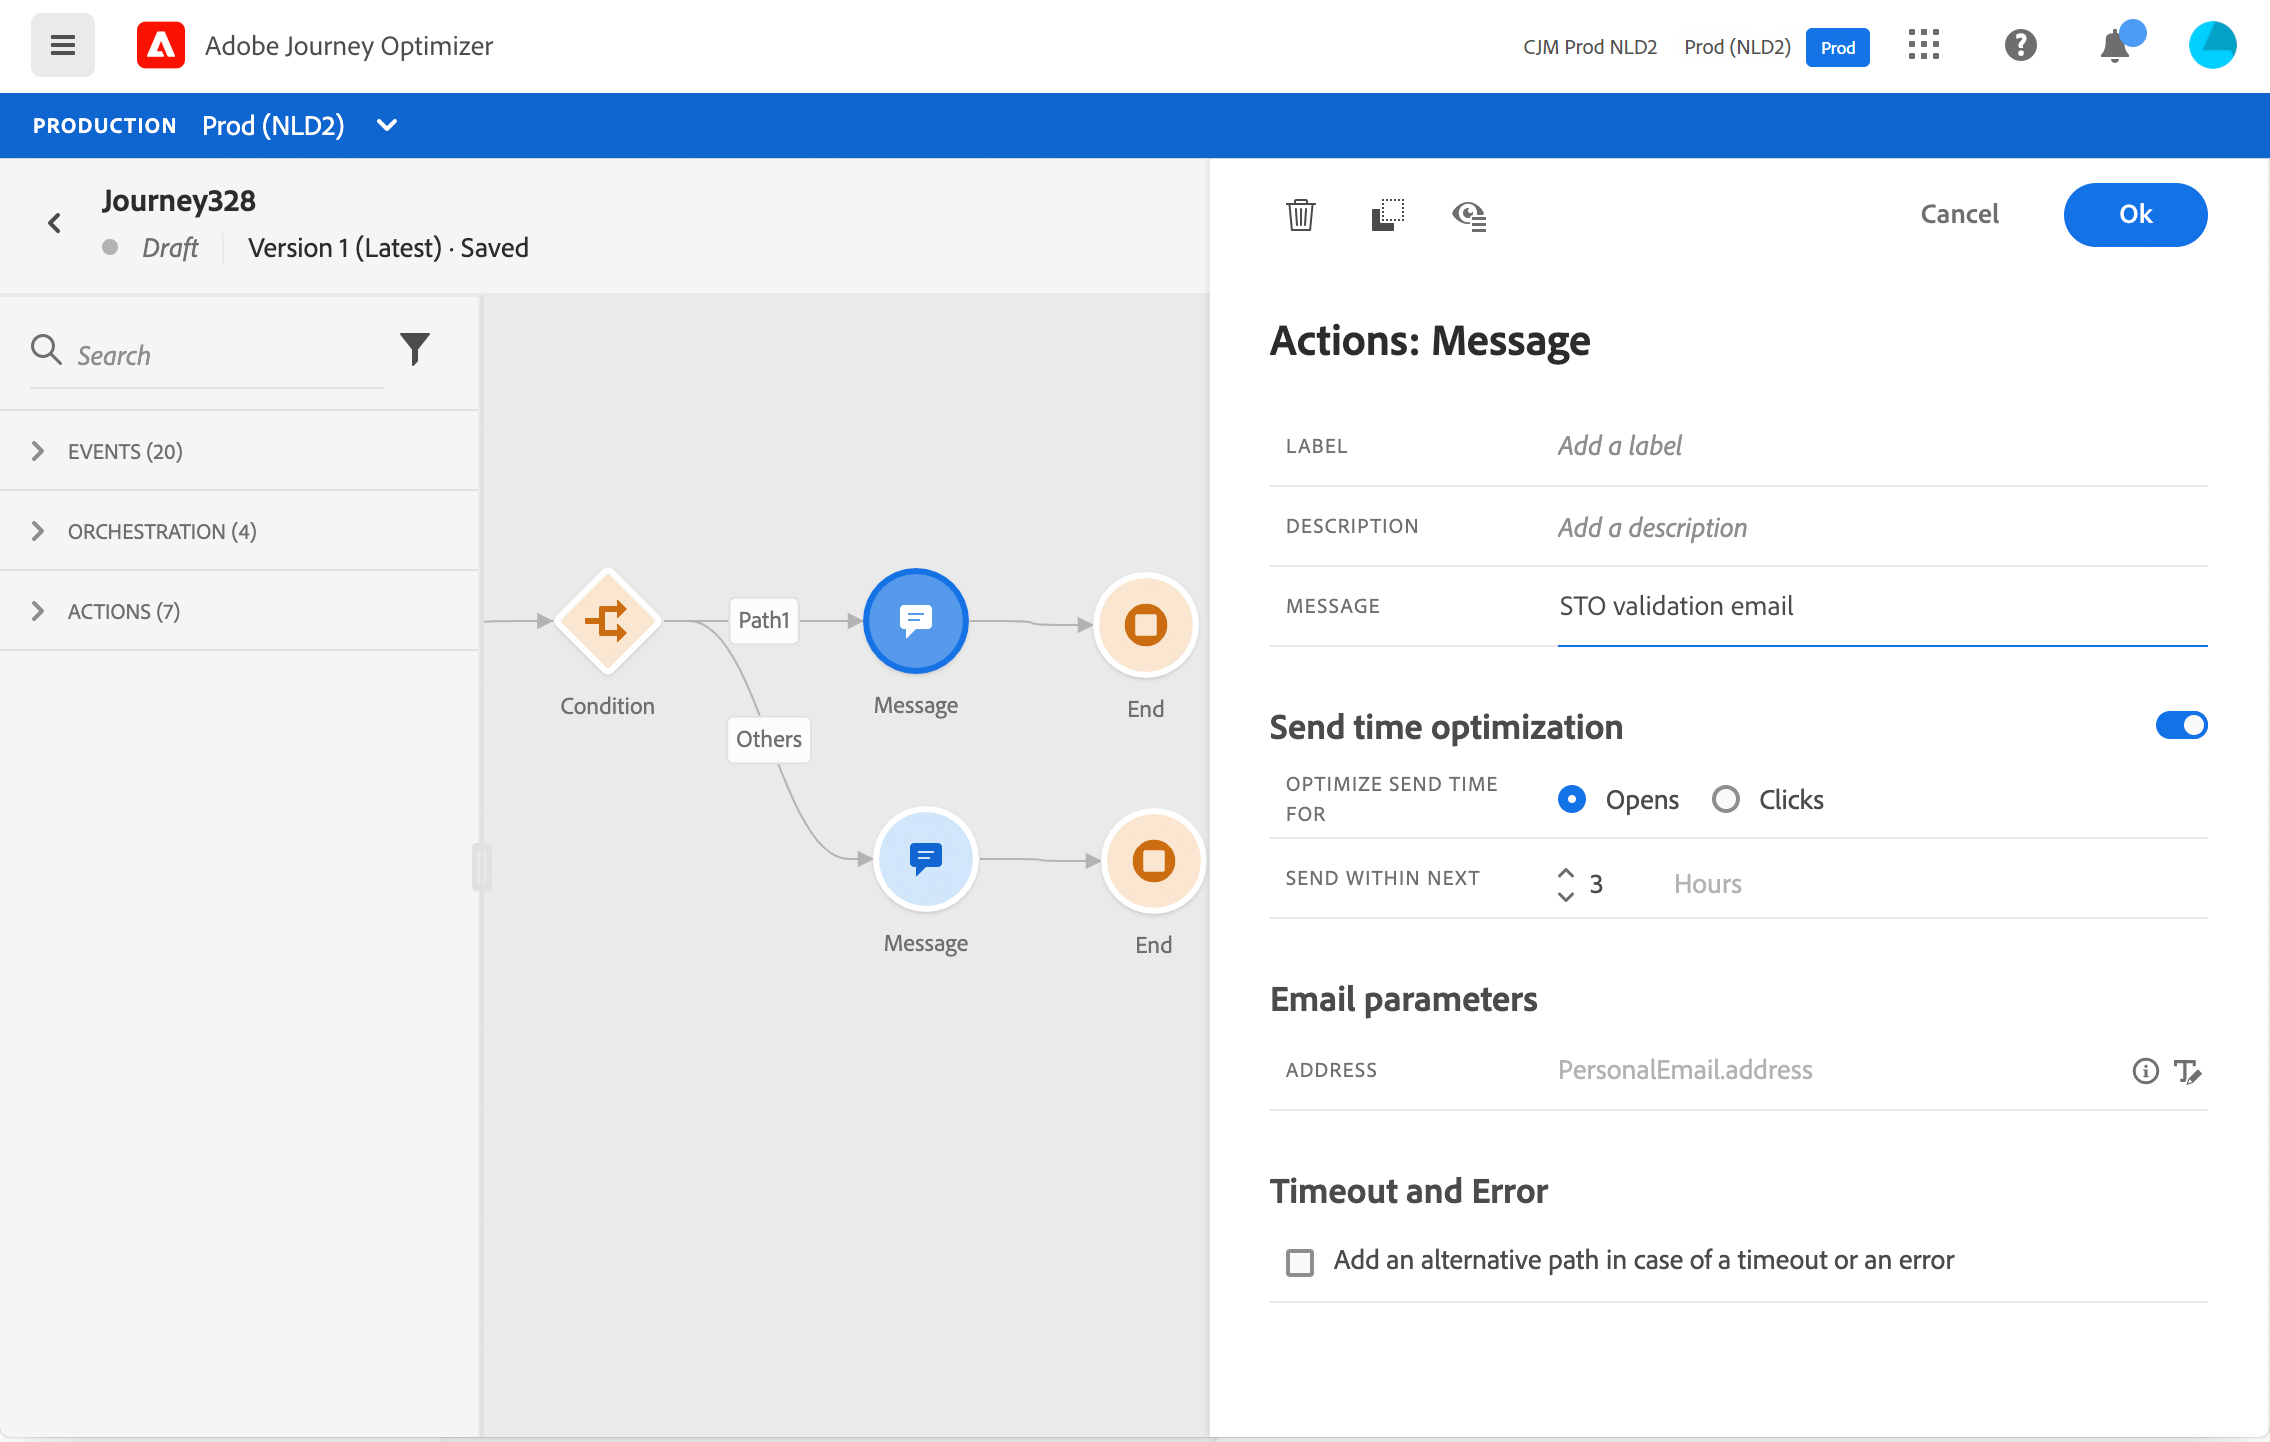
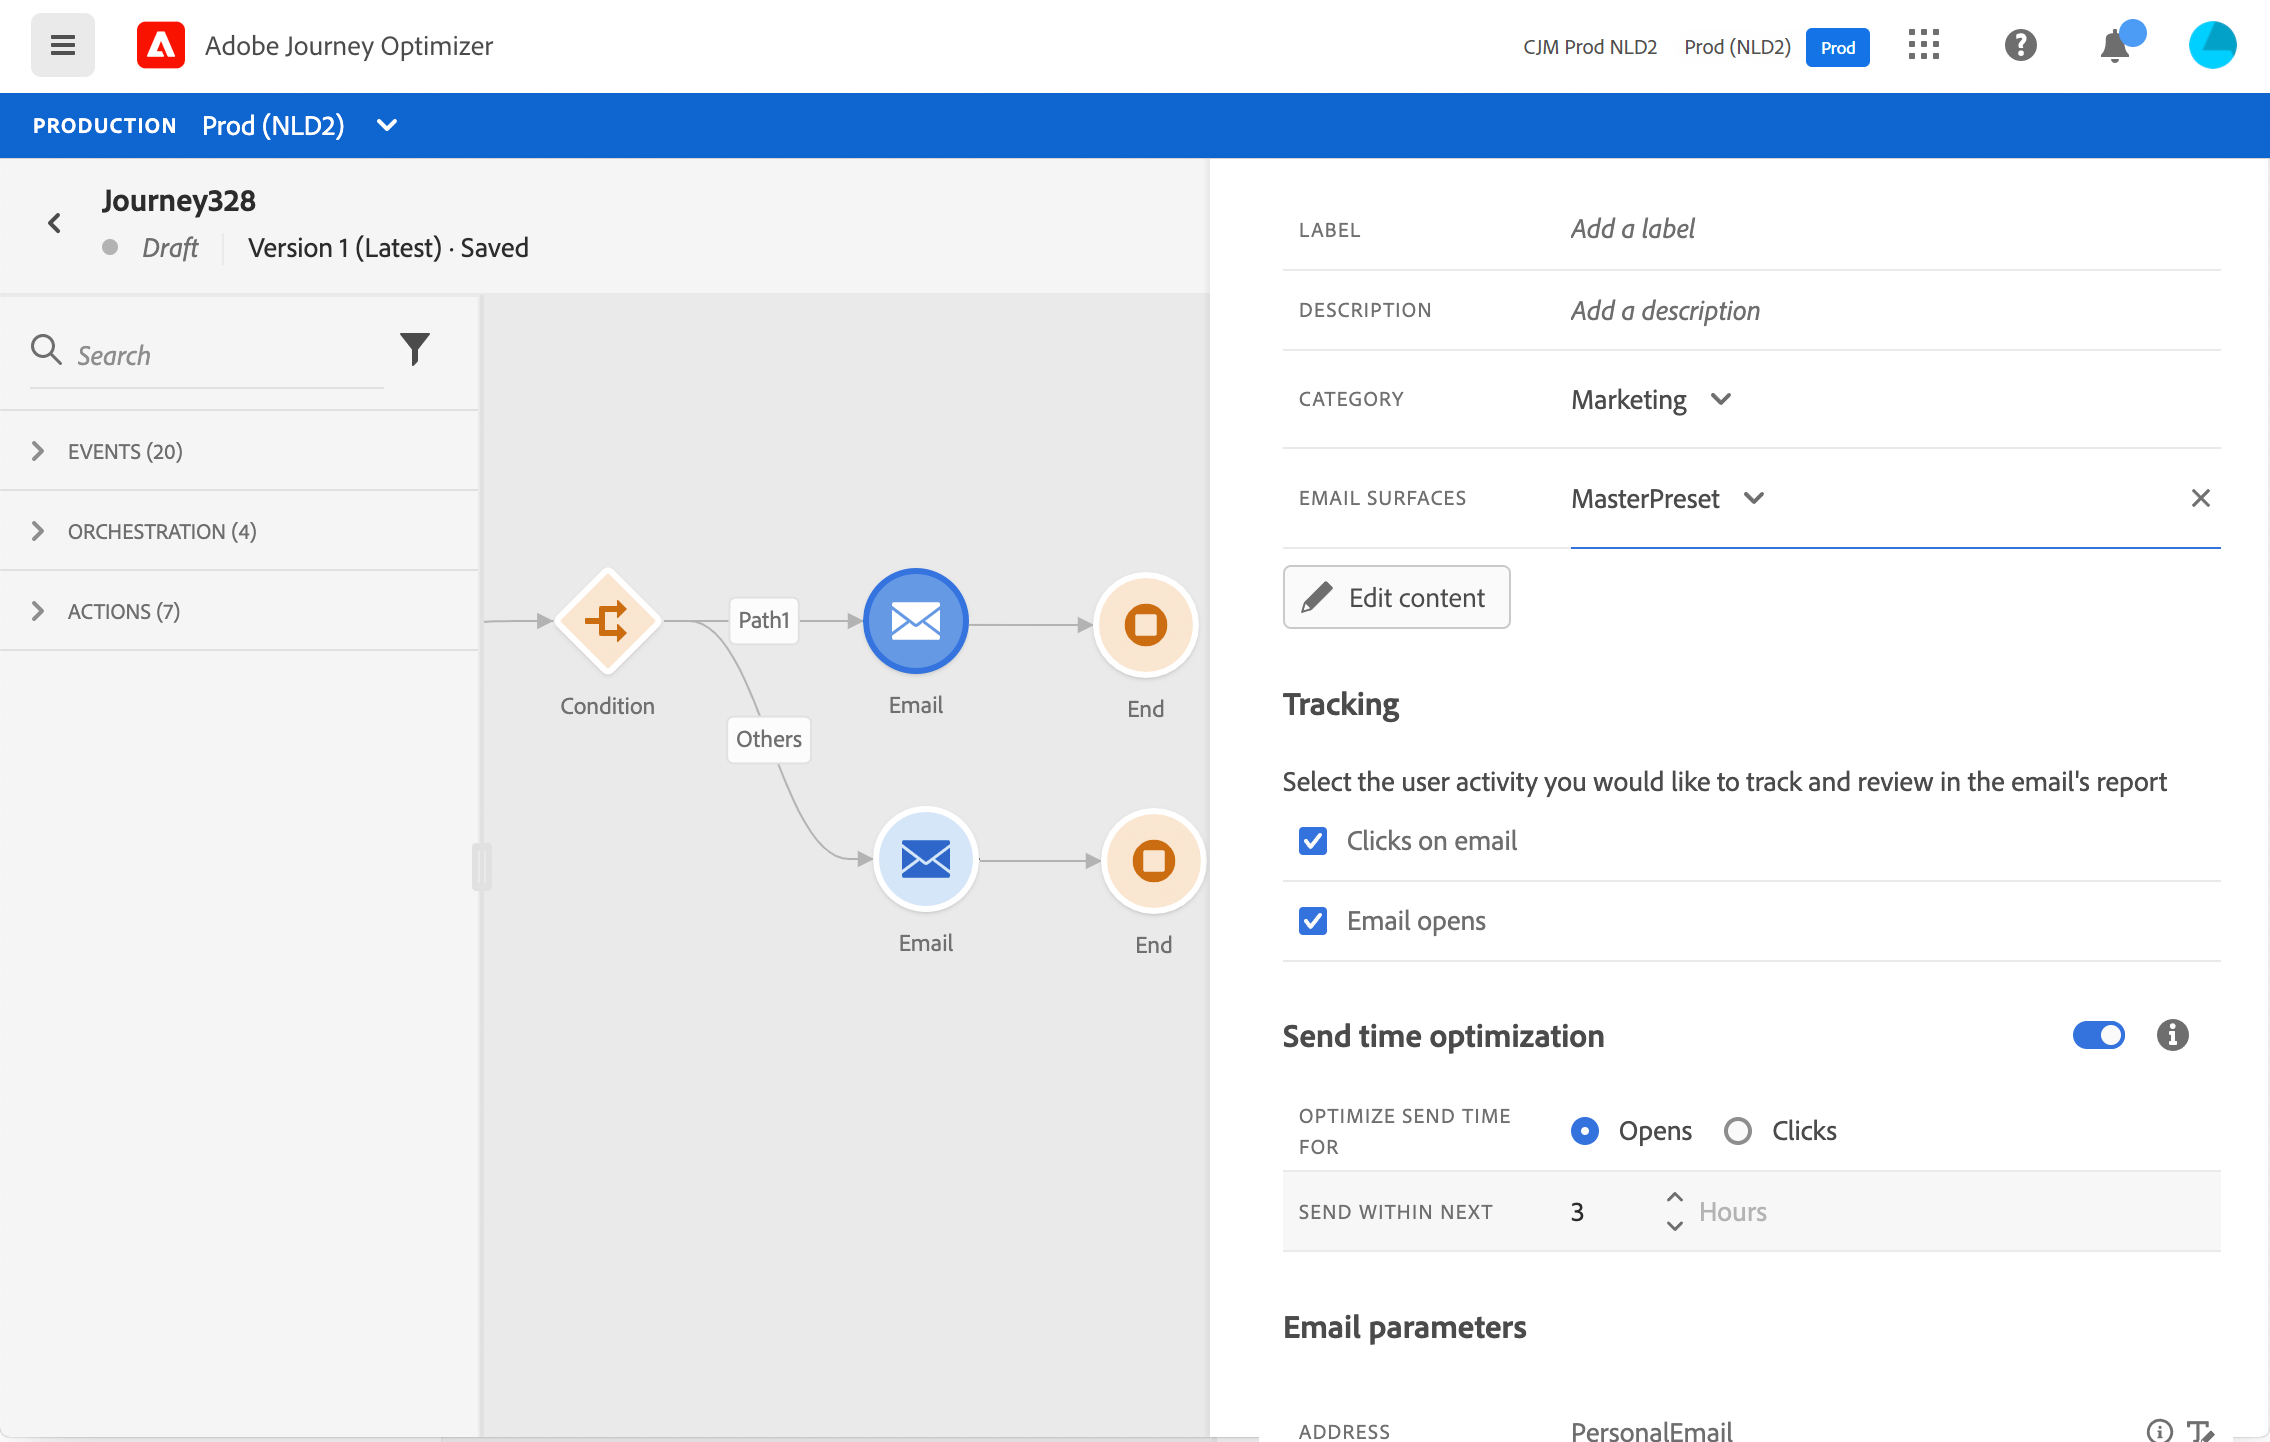
Inline (#918)
review

diff --git a/help/ajo-home.md b/help/ajo-home.md
@@ -12,6 +12,10 @@ exl-id: 3a1b6c61-82df-421c-98d8-2af4f2a5e0de
 
 ![](using/assets/do-not-localize/banner-cjm.jpg) 
 
+>[!CAUTION]
+>
+>On July 25, Adobe Journey Optimizer is releasing a [new feature](using/rn/inline-messages.md) which improves the way you author content for Journey Optimizer channels (email, push, SMS). As a Journey Optimizer practitioner, you now [create and author](using/messages/get-started-content.md) your messages directly from a journey. An automatic conversion of journeys is performed for you. That said, we need your help with a few steps. Learn more on the [required steps](using/rn/inline-messages-steps.md).
+
 <table style="table-layout:fixed">
 <tr>
   <td>
